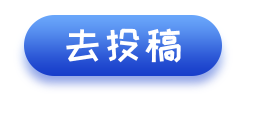
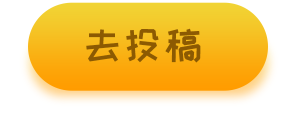
update

diff --git a/src/page/activity/components/PageFive.vue b/src/page/activity/components/PageFive.vue
@@ -39,7 +39,7 @@
 
 <script>
     import Layout from "@/page/activity/components/Layout";
-    import btnIcon from '@/assets/img/activity/page4/btn.png'
+    import btnIcon from '@/assets/img/activity/page5/btn.png'
     import uploadIcon from '@/assets/img/activity/page5/upload-icon.png'
     export default {
         name: "PageFive",
@@ -104,16 +104,16 @@
                         font-weight:400;
                         color:rgba(31,33,37,1);
                    }
-                    input::-webkit-input-placeholder { /* Chrome/Opera/Safari */ 
+                    input::-webkit-input-placeholder { /* Chrome/Opera/Safari */
                         color:rgba(31,33,37,1);
                     }
-                    input::-moz-placeholder { /* Firefox 19+ */  
+                    input::-moz-placeholder { /* Firefox 19+ */
                         color:rgba(31,33,37,1);
                     }
-                    input:-ms-input-placeholder { /* IE 10+ */ 
+                    input:-ms-input-placeholder { /* IE 10+ */
                         color:rgba(31,33,37,1);
                     }
-                    input:-moz-placeholder { /* Firefox 18- */ 
+                    input:-moz-placeholder { /* Firefox 18- */
                         color:rgba(31,33,37,1);
                     }
                }
@@ -149,12 +149,11 @@
                }
            }
            .btn-box{
-               width: 6rem;
+               width: 7rem;
                height: 3rem;
-               margin: 0 auto;
+               margin: 1rem auto 0 auto;
                img{
                    width: 100%;
-                   height: 100%;
                }
            }
        }

diff --git a/src/page/activity/components/PageFour.vue b/src/page/activity/components/PageFour.vue
@@ -100,12 +100,11 @@
                }
            }
            .btn-box{
-               width: 6rem;
+               width: 7rem;
                height: 3rem;
-               margin: 0 auto;
+               margin: 1rem auto 0 auto;
                img{
                    width: 100%;
-                   height: 100%;
                }
            }
        }
